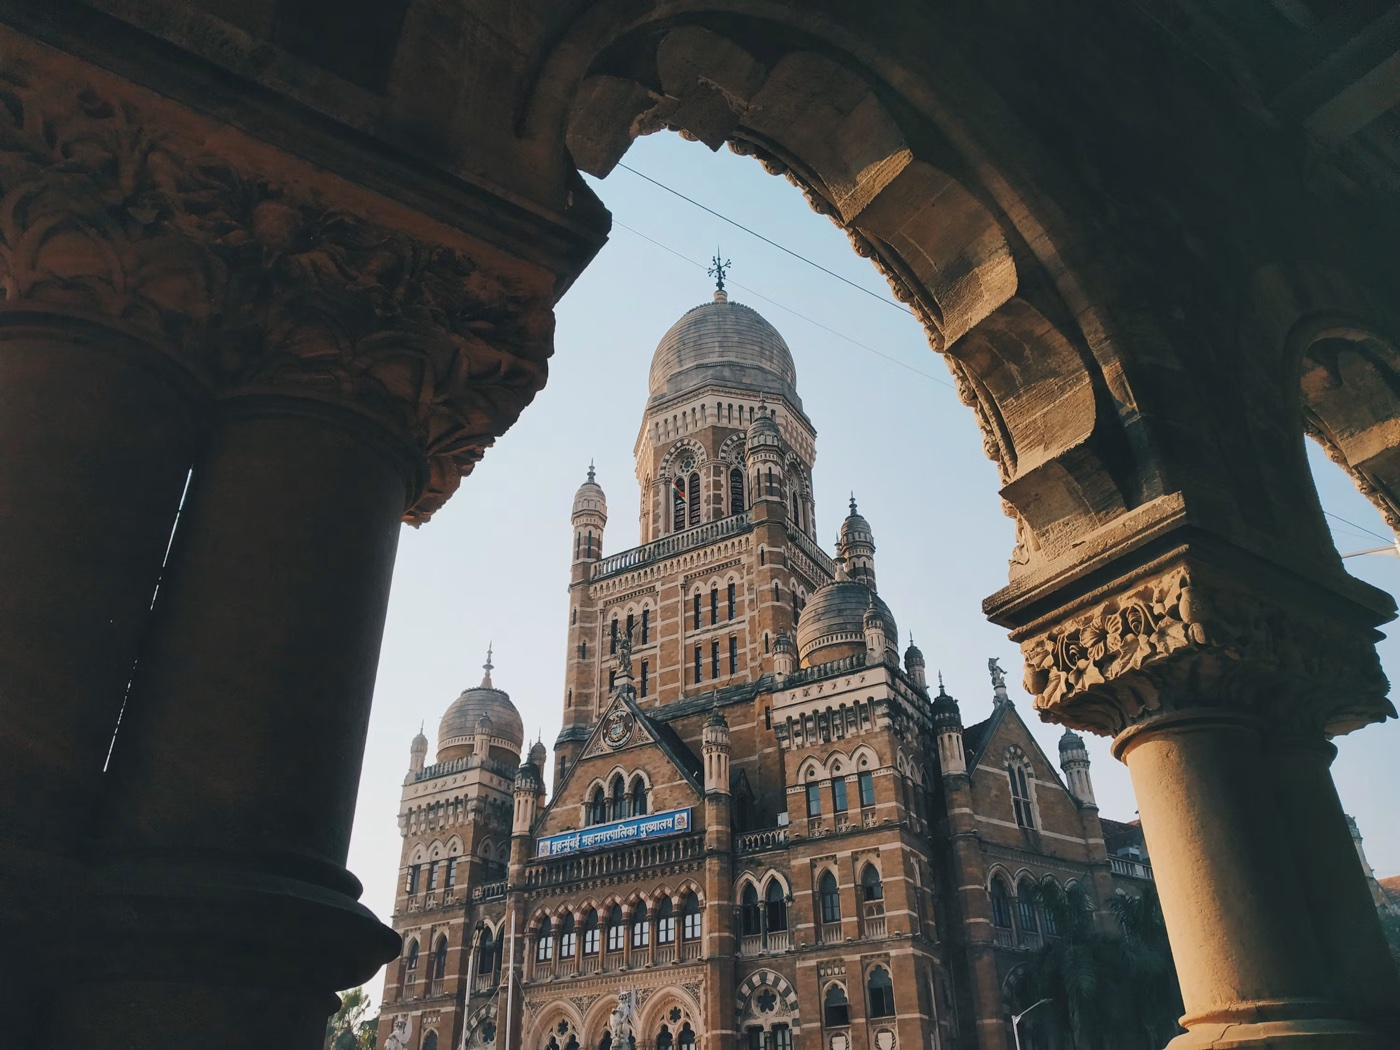
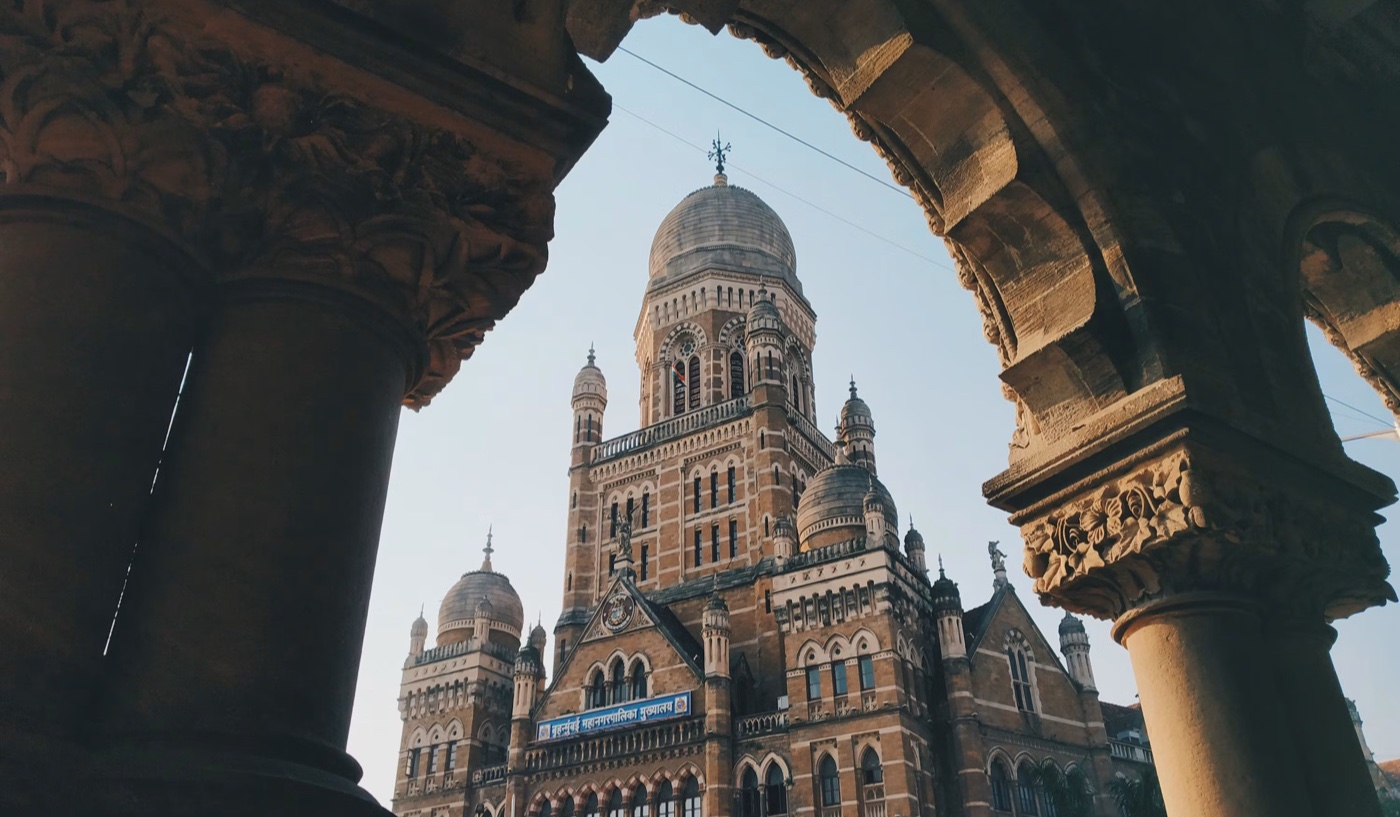
perf: image efficiency pass on the landing page
- art-overlay.jpg 8.9MB -> 1.4MB: cropped to the bottom 2880x1205 band
  (the widest slice either breakpoint's object-bottom crop can show:
  430/180 mobile fits it exactly, 1440/320 desktop shows its bottom 640
  rows as before) + re-encoded q80; BottomFAQ's fill banner also gets
  sizes="100vw" (was defaulting to a 3840w candidate)
- join-connect/join-spirit re-encoded to sibling quality (~310KB saved),
  plan-trip-mumbai cropped to the rendered 1.71:1 (395K -> 297K),
  video-thumbnail re-encoded (1.09MB -> 357K)
- sizes off-by-ones: 768px -> 767px (JoinTheEvent), 1024px -> 1023px
  (PlanYourTrip, TracksSection) so the breakpoint edge picks the small
  candidate
- jaali strip + moon row swap 2x inline 1438px SVGs and 16x MoonElement
  (~224 DOM nodes, ~106KB per home HTML response) for CSS repeat-x
  backgrounds served from /public/dc8 — also removes both patterns'
  ultra-wide tiling cap

diff --git a/devcon/src/components/domain/landing-page/AttendDevcon.tsx b/devcon/src/components/domain/landing-page/AttendDevcon.tsx
@@ -3,8 +3,6 @@ import { useTranslations } from 'next-intl'
 import { TicketComparison } from 'components/domain/tickets/TicketComparison'
 import { PlanYourTrip } from './PlanYourTrip'
 import { GetInvolved } from './GetInvolved'
-import JaaliBorder from './images/new/jaali-purple-border.svg'
-import MoonElement from './images/new/dc8-moon-element.svg'
 import { Reveal } from 'components/common/reveal/Reveal'
 import { sectionX, sectionInner } from 'components/common/styles'
 
@@ -31,15 +29,14 @@ export const AttendDevcon = () => {
         }}
       />
 
-      {/* Jaali border strip across the top — pre-tiled 1438px-wide export, repeated for ultra-wide screens.
-          Flipped so the pattern hangs downward; the tiles are nudged up 4px (relative, NOT a negative
-          margin — overflow:clip does not create a BFC, so -mt collapses through and shifts the whole
-          section instead) so the pattern's flat base tucks under the purple band above. */}
+      {/* Jaali border strip across the top — a CSS-repeated background (the SVG lives in
+          /public/dc8 so it isn't inlined into every home HTML response, and repeat-x tiles
+          it at any viewport width). Flipped so the pattern hangs downward; nudged up 4px
+          (-top on the abs child, NOT a negative margin — overflow:clip does not create a
+          BFC, so -mt collapses through and shifts the whole section instead) so the
+          pattern's flat base tucks under the purple band above. */}
       <div aria-hidden className="relative h-16 lg:h-[84px] overflow-x-clip pointer-events-none select-none">
-        <div className="absolute left-1/2 -translate-x-1/2 -top-1 flex h-full -scale-y-100">
-          <JaaliBorder className="w-[1095px] lg:w-[1438px] h-full shrink-0" />
-          <JaaliBorder className="w-[1095px] lg:w-[1438px] h-full shrink-0" />
-        </div>
+        <div className="absolute inset-x-0 -top-1 h-full -scale-y-100 bg-repeat-x bg-[position:center_top] bg-[length:1095px_100%] lg:bg-[length:1438px_100%] bg-[url('/dc8/jaali-purple-border.svg')]" />
       </div>
 
       <div className={`relative ${sectionX} pt-[32px] sm:pt-24 pb-10 sm:pb-[104px]`}>
@@ -55,17 +52,14 @@ export const AttendDevcon = () => {
         <GetInvolved />
       </div>
 
-      {/* Moon glyph row, flush with the section bottom (Figma 4917:966 bottom deco).
-          -z-10 keeps it above the root background but under the content, which
-          otherwise sits below it in paint order at small widths. */}
+      {/* Moon glyph row, flush with the section bottom (Figma 4917:966 bottom deco) —
+          CSS-repeated background instead of 16 inline SVGs. -z-10 keeps it above the
+          root background but under the content, which otherwise sits below it in
+          paint order at small widths. */}
       <div
         aria-hidden
-        className="absolute bottom-0 left-1/2 -translate-x-1/2 -z-10 flex opacity-30 pointer-events-none select-none"
-      >
-        {Array.from({ length: 16 }, (_, i) => (
-          <MoonElement key={i} className="w-[100px] h-[100px] md:w-[131px] md:h-[131px] shrink-0" />
-        ))}
-      </div>
+        className="absolute bottom-0 inset-x-0 -z-10 h-[100px] md:h-[131px] opacity-30 pointer-events-none select-none bg-repeat-x bg-[position:center_bottom] bg-[length:100px_100%] md:bg-[length:131px_100%] bg-[url('/dc8/dc8-moon-element.svg')]"
+      />
     </div>
   )
 }

diff --git a/devcon/src/components/common/BottomFAQ.tsx b/devcon/src/components/common/BottomFAQ.tsx
@@ -27,7 +27,7 @@ export const BottomFAQ = ({ heading, items, viewAllLabel, viewAllHref, banner, b
     <>
       {banner && (
         <div className="relative w-full aspect-[430/180] sm:aspect-[1440/320] overflow-hidden">
-          <Image src={banner} alt={bannerAlt} fill className="object-cover object-bottom" />
+          <Image src={banner} alt={bannerAlt} fill sizes="100vw" className="object-cover object-bottom" />
           <div className="absolute inset-0 bg-gradient-to-t from-[rgba(34,17,68,0.57)] to-transparent mix-blend-overlay pointer-events-none" />
         </div>
       )}

diff --git a/devcon/src/components/domain/landing-page/TracksSection.tsx b/devcon/src/components/domain/landing-page/TracksSection.tsx
@@ -36,7 +36,7 @@ export const TracksSection = () => {
               src={TRACK_IMAGES[idx]}
               alt=""
               className="w-[120px] lg:w-[160px] h-auto"
-              sizes="(max-width: 1024px) 120px, 160px"
+              sizes="(max-width: 1023px) 120px, 160px"
             />
             <p className="text-[18px] leading-[22px] md:text-[20px] md:leading-[24px] font-bold tracking-[-0.5px] text-center text-[#160b2b]">
               {trackItems[idx]?.title}

diff --git a/devcon/src/components/domain/landing-page/JoinTheEvent.tsx b/devcon/src/components/domain/landing-page/JoinTheEvent.tsx
@@ -85,7 +85,7 @@ export const JoinTheEvent = () => {
                     src={CARD_IMAGES[i]}
                     alt={c.image_alt}
                     fill
-                    sizes="(max-width: 768px) 100vw, 224px"
+                    sizes="(max-width: 767px) 100vw, 224px"
                     className="object-cover"
                   />
                 </div>

diff --git a/devcon/src/components/domain/landing-page/PlanYourTrip.tsx b/devcon/src/components/domain/landing-page/PlanYourTrip.tsx
@@ -37,7 +37,7 @@ export const PlanYourTrip = () => {
             src={PlanTripMumbai}
             alt={t('image_alt')}
             fill
-            sizes="(max-width: 1024px) 100vw, 624px"
+            sizes="(max-width: 1023px) 100vw, 624px"
             className="object-cover"
           />
         </div>
